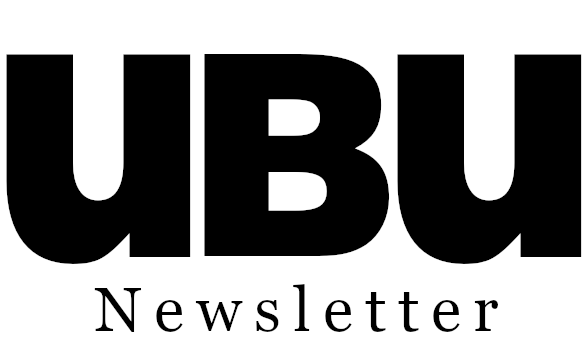
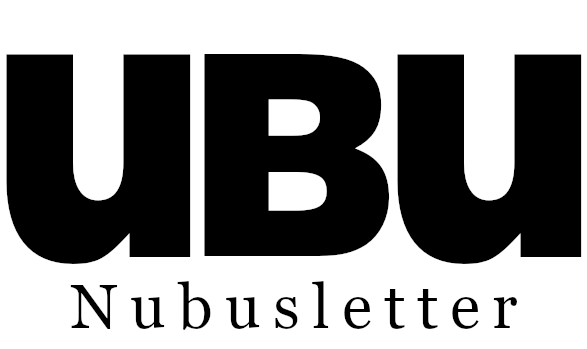
nubusletter fix

Changed region(s): [[0.1227, 0.8023, 0.8893, 0.9742]]

diff --git a/docs/content/newsletter-1.html b/docs/content/newsletter-1.html
@@ -244,6 +244,9 @@
     .font-display {
       font-family: Europa Grotesk SH, Arial Black, sans-serif !important
     }
+    .font-ubu {
+      font-family: UBU Logotype, Arial Black, sans-serif !important
+    }
     .text-sm {
       font-size: 14px !important
     }
@@ -401,7 +404,7 @@
                     </td>
                     <td class="sm-block sm-w-full px-8 sm-px-0">
                       <p class="m-0 mb-2 text-sm text-right">
-                        <span class="font-display">UBU</span> e.V. Ensemble für neue Konzertperformances
+                        <span class="font-ubu">UBU</span> e.V. Ensemble für neue Konzertperformances
                         <br>
                         Anna Neubert
                         <br>

diff --git a/docs/content/ubu-newsletter-maerz-26.html b/docs/content/ubu-newsletter-maerz-26.html
@@ -473,7 +473,7 @@
                     </td>
                     <td class="sm-block sm-w-full px-8 sm-px-0">
                       <p class="m-0 mb-2 text-sm text-right">
-                        <span class="font-display">UBU</span> e.V. Ensemble für neue Konzertperformances
+                        <span class="font-ubu">UBU</span> e.V. Ensemble für neue Konzertperformances
                         <br>
                         Anna Neubert
                         <br>

diff --git a/layouts/main.html b/layouts/main.html
@@ -123,7 +123,7 @@
               </td>
               <td class="sm:block sm:w-full px-8 sm:px-0">
                 <p class="m-0 mb-2 text-sm text-right">
-                  <span class="font-display">UBU</span> e.V. Ensemble für neue Konzertperformances
+                  <span class="font-ubu">UBU</span> e.V. Ensemble für neue Konzertperformances
 
                   <br>
                   Anna Neubert
